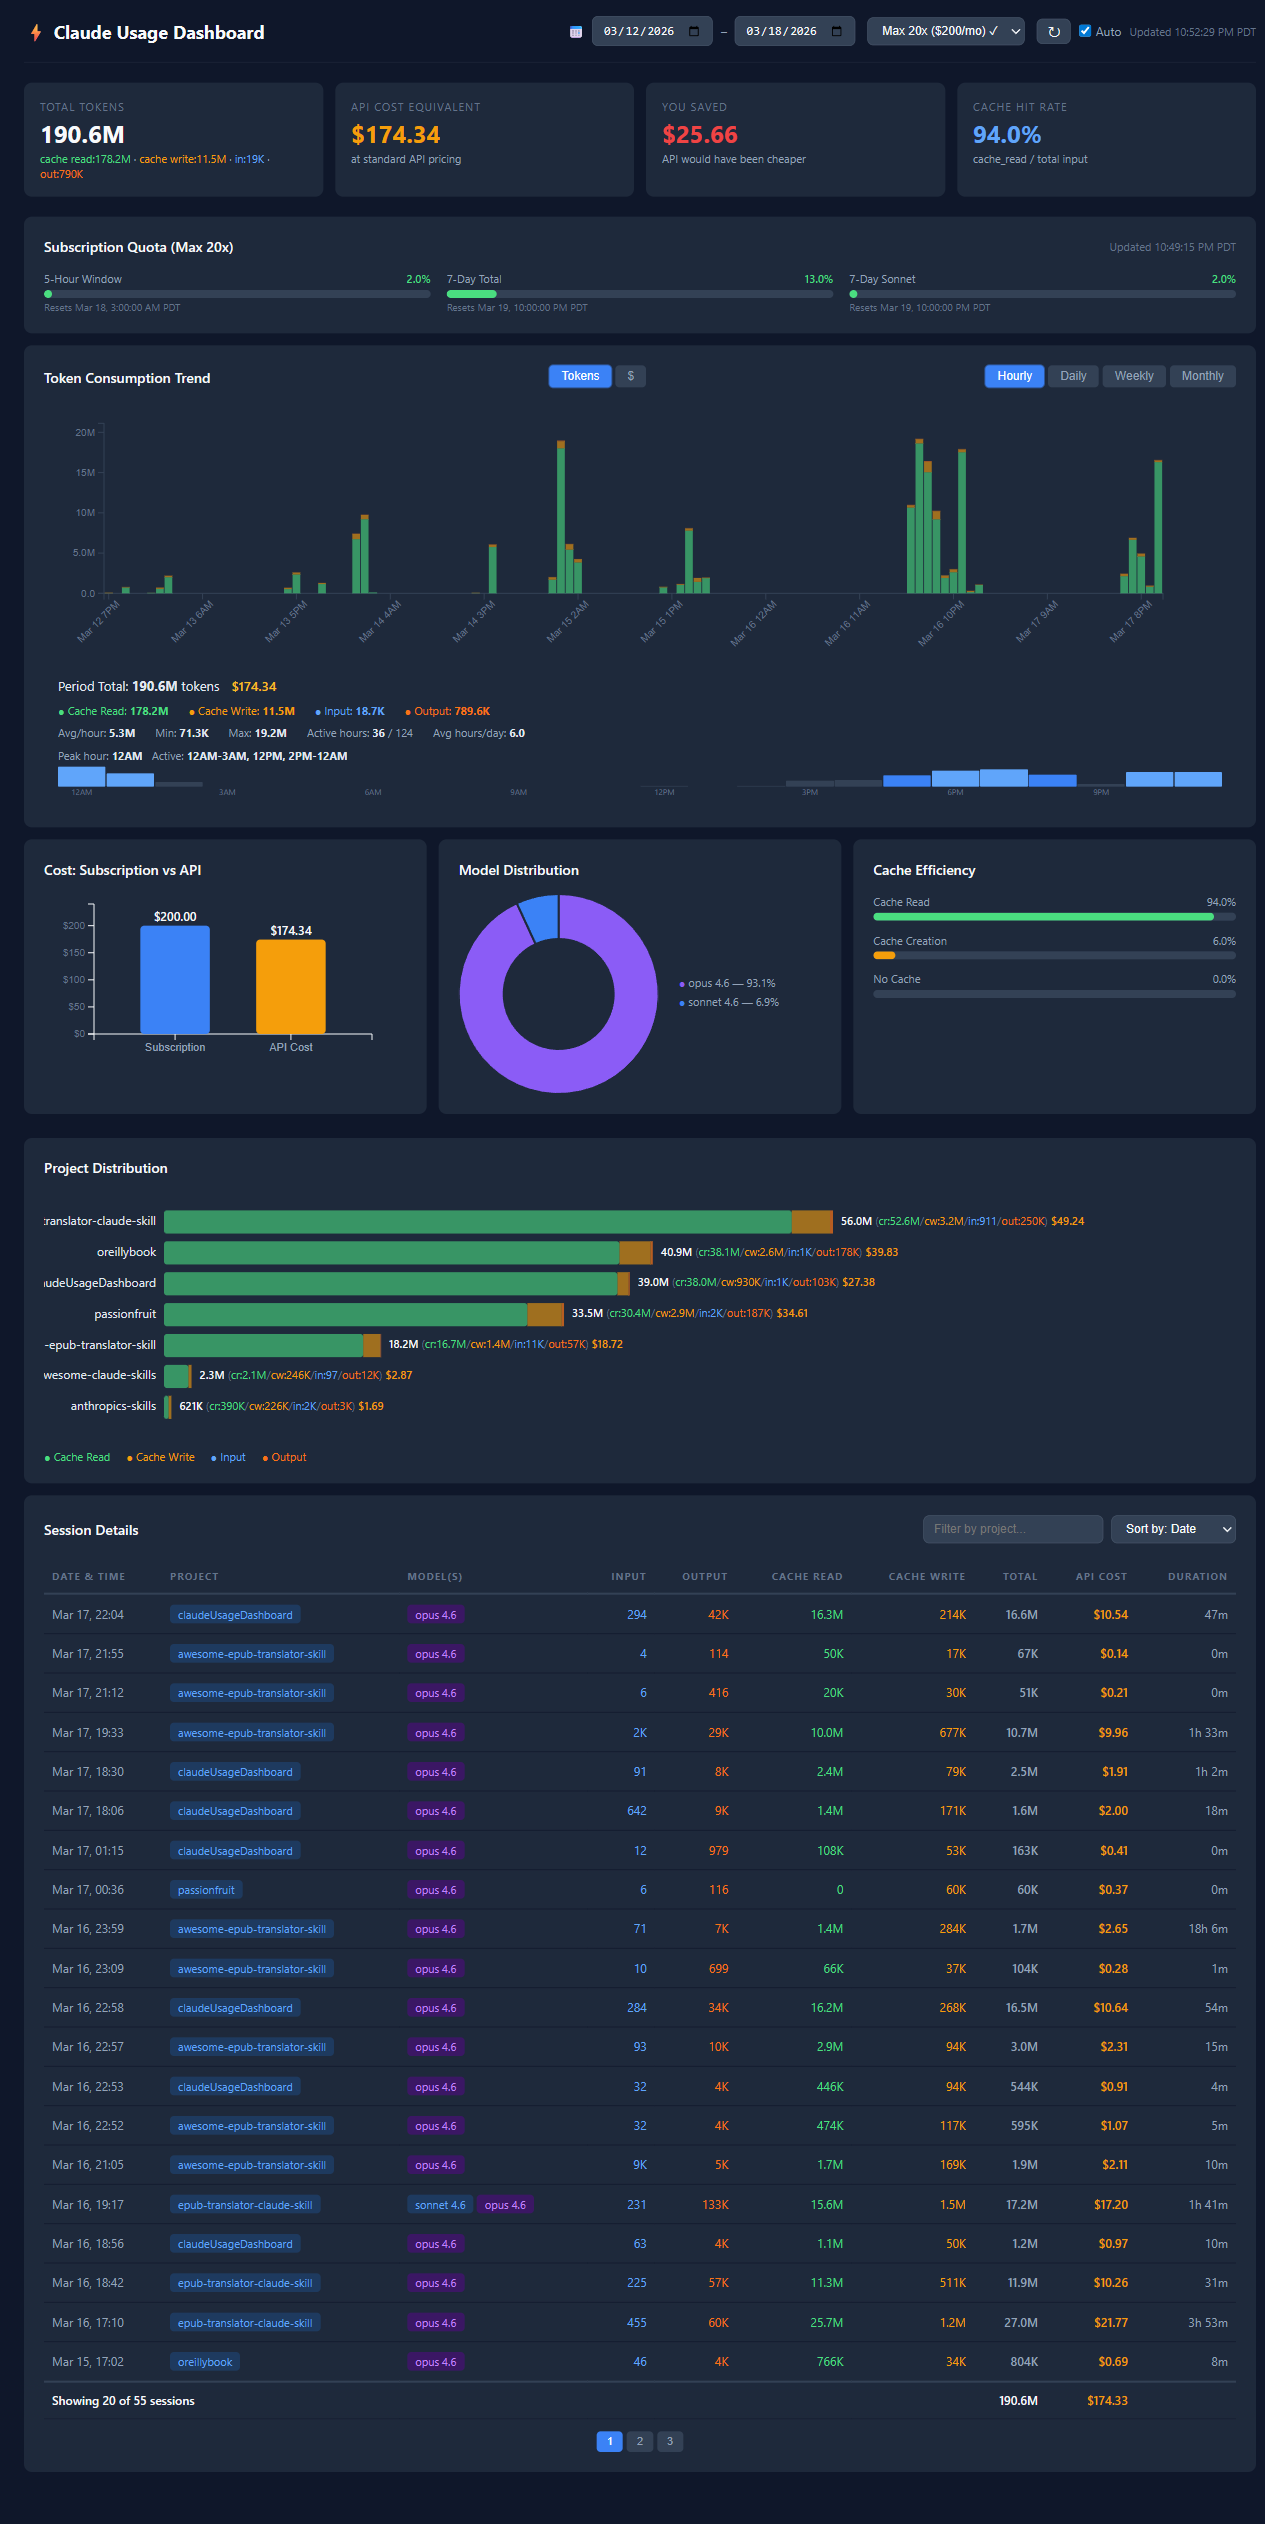
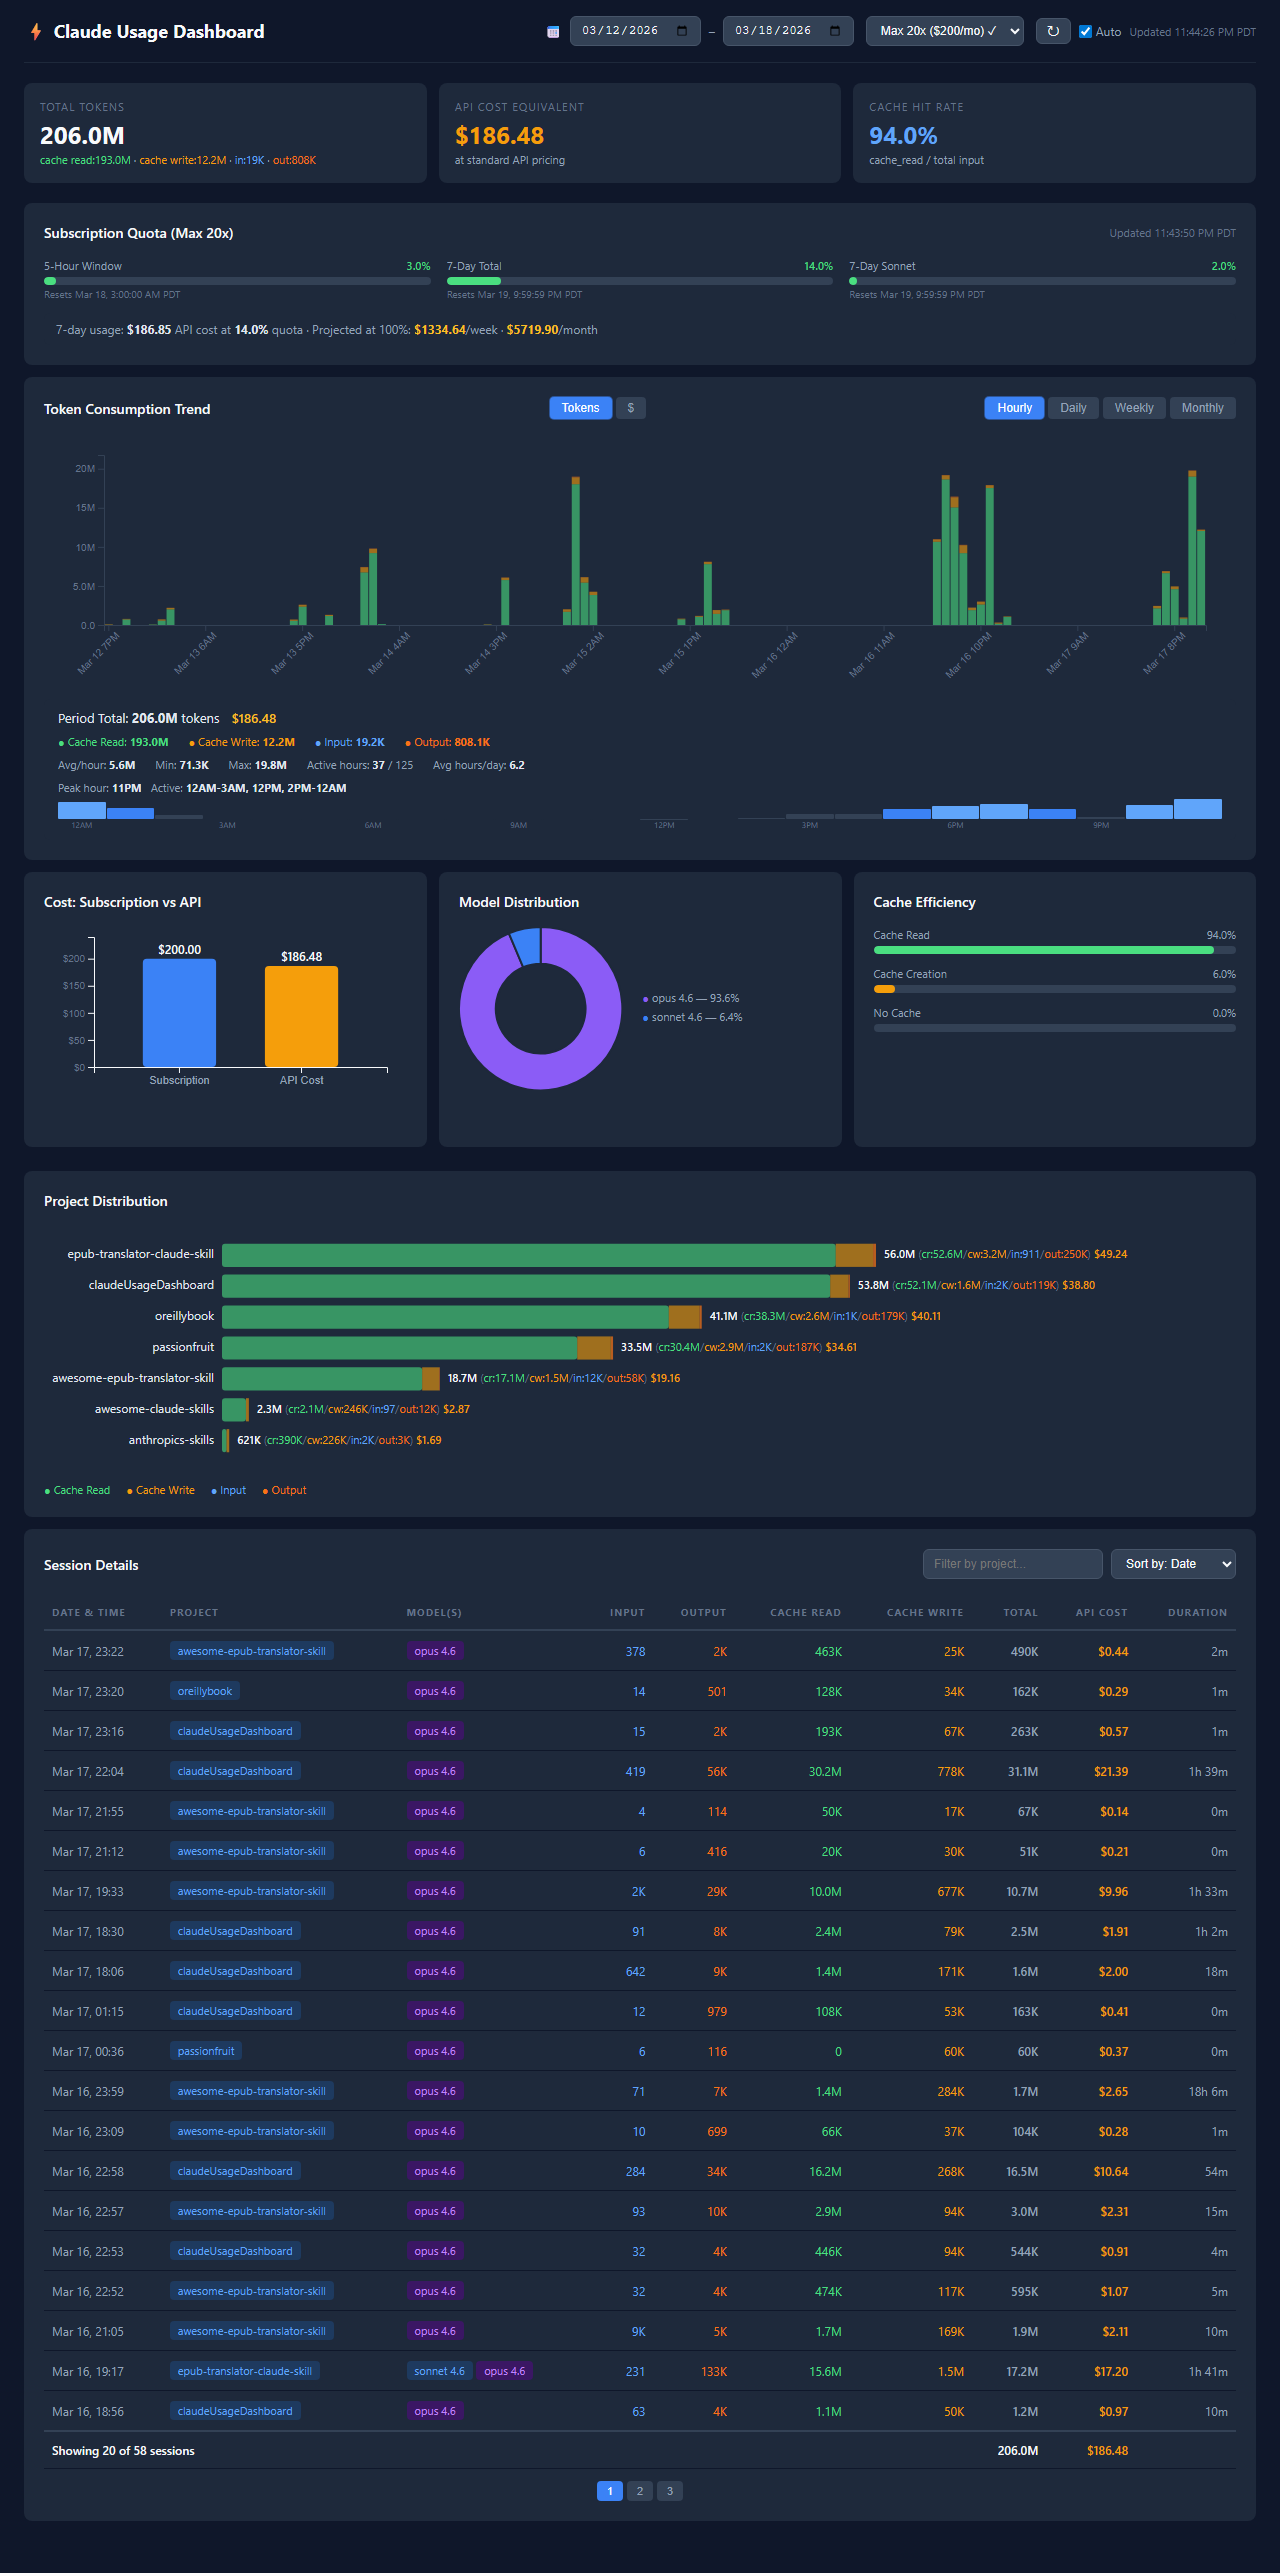
feat: quota cost projection, remove savings card, update screenshot
- Add projected API cost at 100% quota utilization (weekly + monthly)
  in the Subscription Quota section
- Remove "You Saved" summary card (no longer relevant)
- Update README and screenshot for v1.3.3

diff --git a/public/js/app.js b/public/js/app.js
@@ -49,8 +49,16 @@ function getTimezoneAbbr() {
 
 async function loadQuota() {
   try {
-    const data = await fetchQuota();
-    renderQuotaGauges(document.getElementById('chart-quota'), data);
+    const today = new Date();
+    const sevenDaysAgo = new Date(today);
+    sevenDaysAgo.setDate(today.getDate() - 7);
+    const fmt = d => d.toISOString().slice(0, 10);
+
+    const [data, cost7d] = await Promise.all([
+      fetchQuota(),
+      fetchCost({ from: fmt(sevenDaysAgo), to: fmt(today), plan: state.plan.plan }),
+    ]);
+    renderQuotaGauges(document.getElementById('chart-quota'), data, { cost7d: cost7d.api_equivalent_cost_usd });
     const el = document.getElementById('quota-last-updated');
     if (el && data.lastFetched) el.textContent = `Updated ${new Date(data.lastFetched).toLocaleTimeString()} ${getTimezoneAbbr()}`;
   } catch { /* silently degrade */ }
@@ -105,12 +113,6 @@ async function loadAll() {
     `<span style="color:#60a5fa">in:${formatNumber(t.input_tokens)}</span> · ` +
     `<span style="color:#f97316">out:${formatNumber(t.output_tokens)}</span>`;
   document.getElementById('val-api-cost').textContent = `$${cost.api_equivalent_cost_usd.toFixed(2)}`;
-
-  const savings = cost.savings_usd;
-  const savingsEl = document.getElementById('val-savings');
-  savingsEl.textContent = `$${Math.abs(savings).toFixed(2)}`;
-  savingsEl.style.color = savings >= 0 ? '#4ade80' : '#ef4444';
-  document.getElementById('sub-savings').textContent = savings >= 0 ? 'subscription saved you this much!' : 'API would have been cheaper';
 
   document.getElementById('val-cache-rate').textContent = `${(cache.cache_read_rate * 100).toFixed(1)}%`;
 

diff --git a/public/js/charts/quota-gauge.js b/public/js/charts/quota-gauge.js
@@ -1,4 +1,4 @@
-export function renderQuotaGauges(container, data) {
+export function renderQuotaGauges(container, data, opts = {}) {
   container.innerHTML = '';
 
   if (!data || data.available === false) {
@@ -85,4 +85,20 @@ export function renderQuotaGauges(container, data) {
   }
 
   container.appendChild(wrapper);
+
+  // Project cost at full 7-day quota utilization
+  const sevenDay = data.seven_day;
+  if (sevenDay && sevenDay.utilization > 0 && opts.cost7d > 0) {
+    const pct = sevenDay.utilization / 100;
+    const projectedCost = opts.cost7d / pct;
+
+    const proj = document.createElement('div');
+    proj.style.cssText = 'margin-top:12px;padding:8px 12px;background:#1e293b;border-radius:6px;font-size:12px;color:#94a3b8';
+    const monthlyProjected = projectedCost * (30 / 7);
+    proj.innerHTML =
+      `7-day usage: <strong style="color:#e2e8f0">$${opts.cost7d.toFixed(2)}</strong> API cost at <strong style="color:#e2e8f0">${sevenDay.utilization.toFixed(1)}%</strong> quota` +
+      ` · Projected at 100%: <strong style="color:#fbbf24">$${projectedCost.toFixed(2)}</strong>/week` +
+      ` · <strong style="color:#fbbf24">$${monthlyProjected.toFixed(2)}</strong>/month`;
+    container.appendChild(proj);
+  }
 }

diff --git a/public/index.html b/public/index.html
@@ -34,12 +34,7 @@
       <div class="card-value" id="val-api-cost">—</div>
       <div class="card-sub" id="sub-api-cost">at standard API pricing</div>
     </div>
-    <div class="card" id="card-savings">
-      <div class="card-label">You Saved</div>
-      <div class="card-value" id="val-savings">—</div>
-      <div class="card-sub" id="sub-savings"></div>
-    </div>
-    <div class="card" id="card-cache">
+<div class="card" id="card-cache">
       <div class="card-label">Cache Hit Rate</div>
       <div class="card-value" id="val-cache-rate">—</div>
       <div class="card-sub" id="sub-cache-rate">cache_read / total input</div>

diff --git a/public/css/style.css b/public/css/style.css
@@ -37,7 +37,7 @@ body {
 
 .summary-cards {
   display: grid;
-  grid-template-columns: repeat(4, 1fr);
+  grid-template-columns: repeat(3, 1fr);
   gap: 12px;
   margin-bottom: 20px;
 }

diff --git a/README.md b/README.md
@@ -9,8 +9,8 @@ A self-hosted dashboard that visualizes your [Claude Code](https://claude.ai/cod
 ## Features
 
 - **Token tracking** — Total tokens with breakdown by input, output, cache read, and cache write
-- **Cost estimation** — API cost equivalent at standard pricing, compared against your subscription plan (Pro / Max 5x / Max 20x)
-- **Subscription quota** — Real-time utilization gauges (5-hour, 7-day, per-model) pulled from the Anthropic API with auto-detection of your plan tier. 7-day reset shows full date+time; all timestamps include timezone
+- **Cost estimation** — API cost equivalent at standard pricing
+- **Subscription quota** — Real-time utilization gauges (5-hour, 7-day, per-model) pulled from the Anthropic API with auto-detection of your plan tier. Includes projected API cost at 100% quota utilization (weekly and monthly). 7-day reset shows full date+time; all timestamps include timezone
 - **Token consumption trend** — Stacked bar chart with hourly, daily, weekly, or monthly granularity. Toggle between tokens and dollar view. Includes period summary with avg/min/max stats, active hours heatmap, and smart date range limits per granularity
 - **Model distribution** — Donut chart showing usage across Claude models
 - **Cache efficiency** — Visual breakdown of cache read, cache creation, and uncached requests
